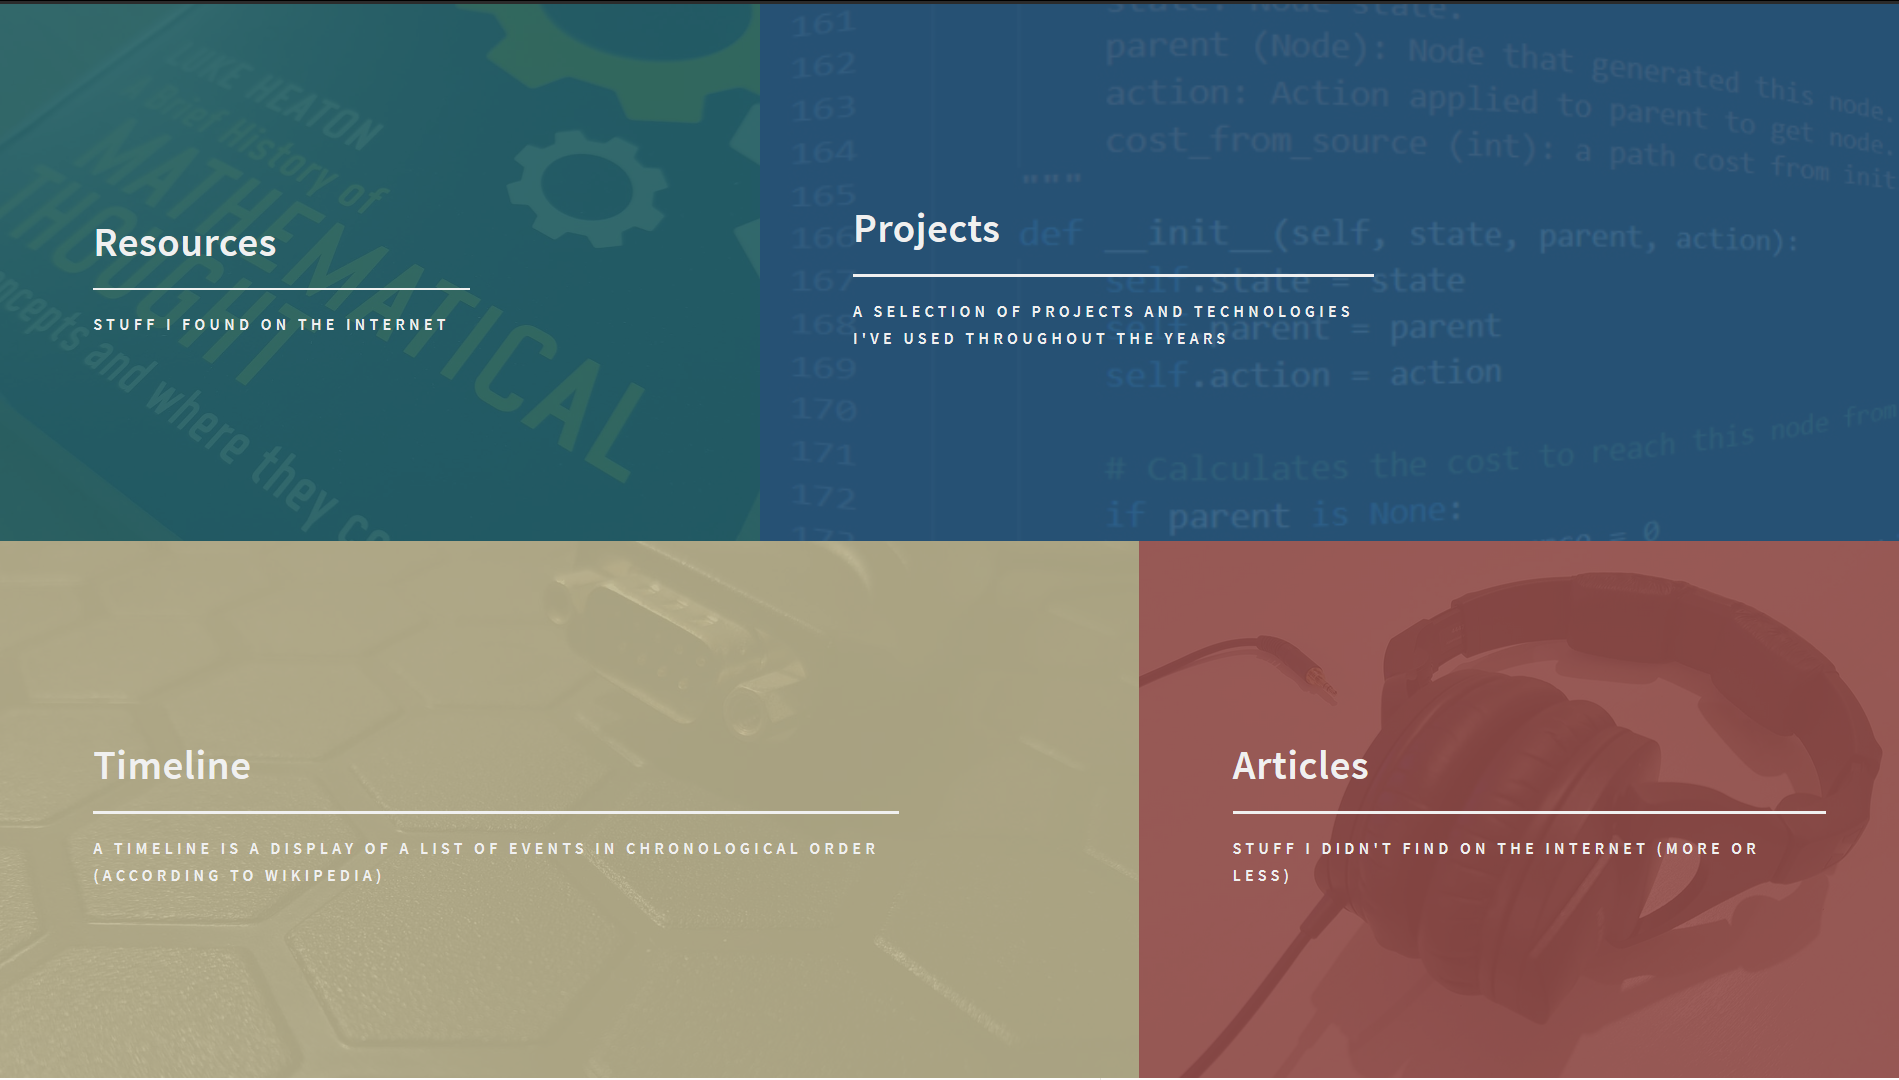
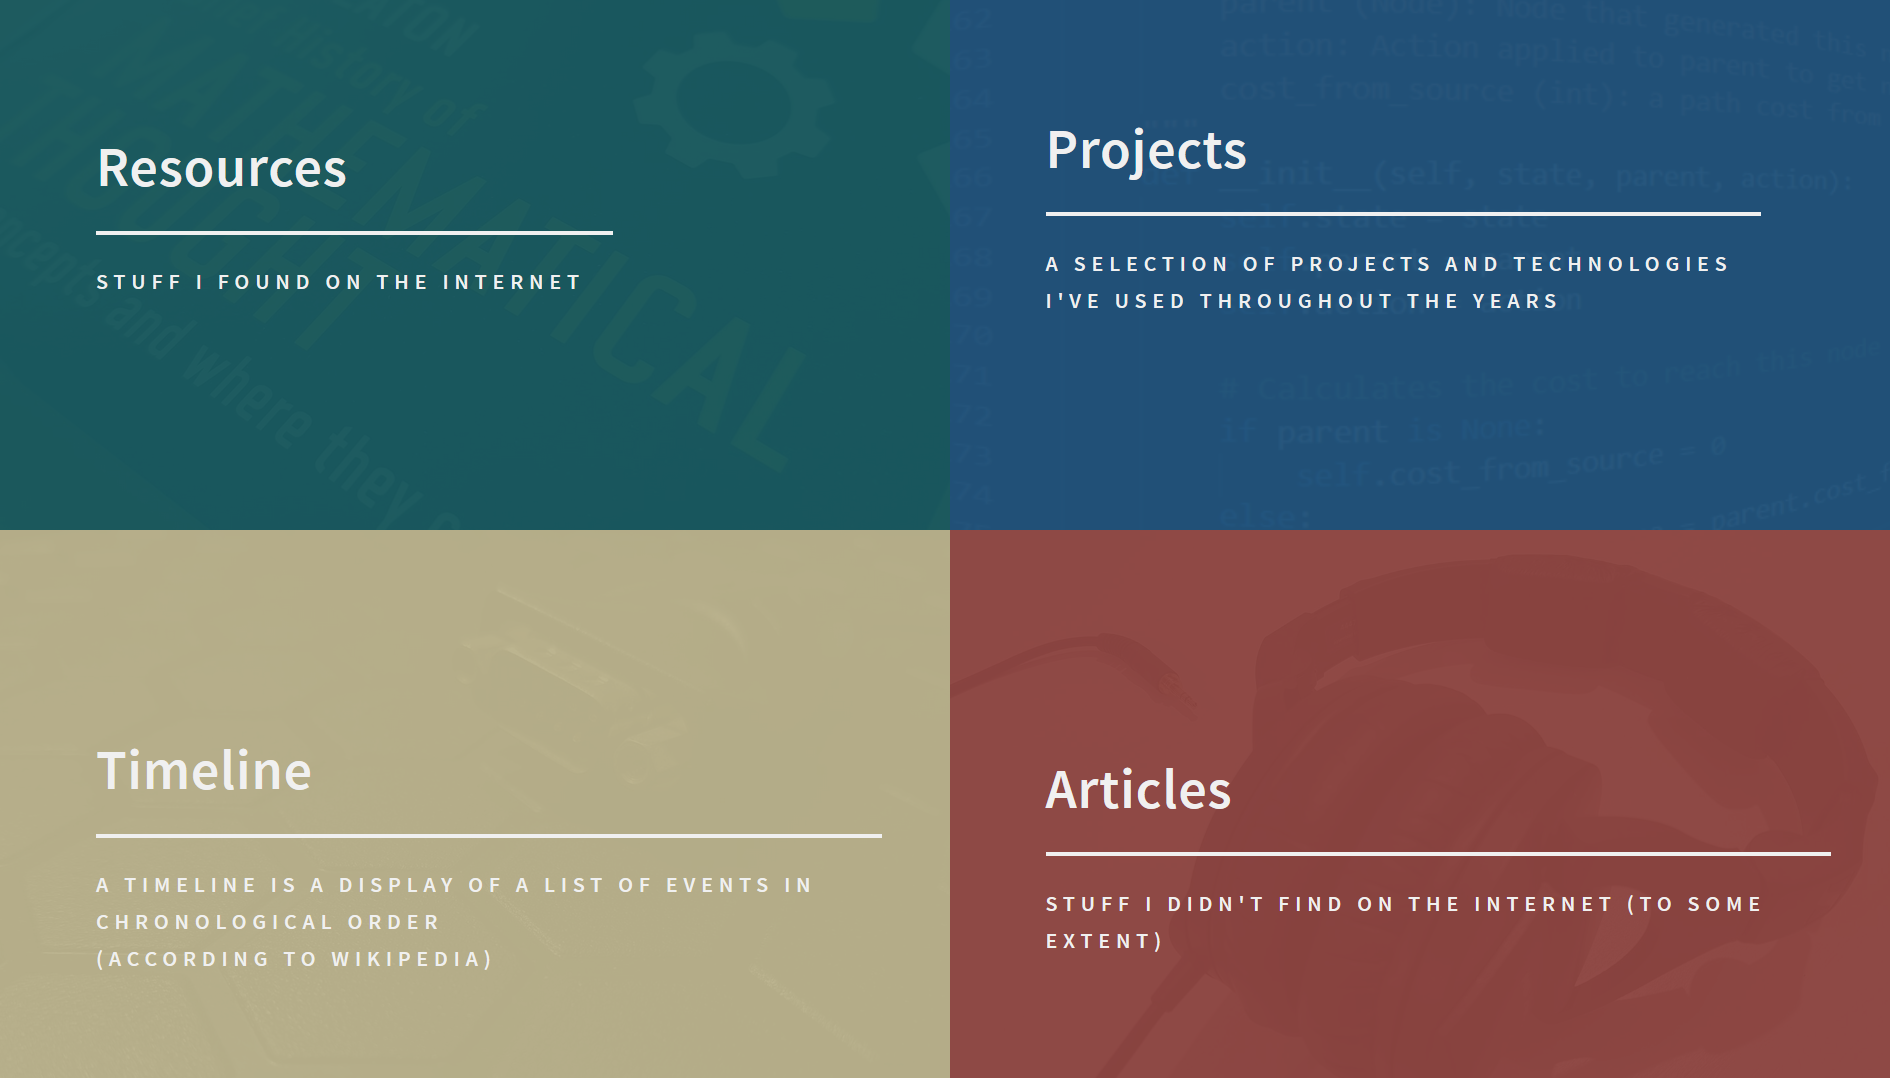
Update site image and tiles opacity

diff --git a/src/assets/scss/components/_tiles.scss b/src/assets/scss/components/_tiles.scss
@@ -90,7 +90,7 @@
       display: block;
       height: 100%;
       left: 0;
-      opacity: 0.85;
+      opacity: 0.95;
       position: absolute;
       width: 100%;
       z-index: 2;
@@ -110,7 +110,7 @@
 
     &:hover {
       &:before {
-        opacity: 0.3;
+        opacity: 0.75;
       }
     }
 
